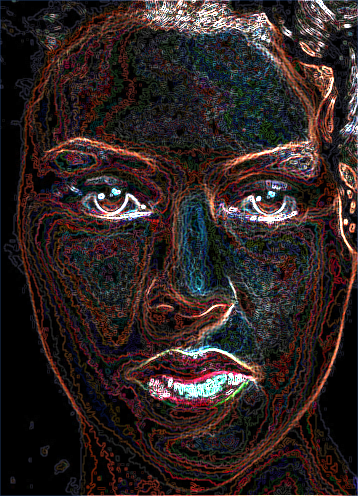
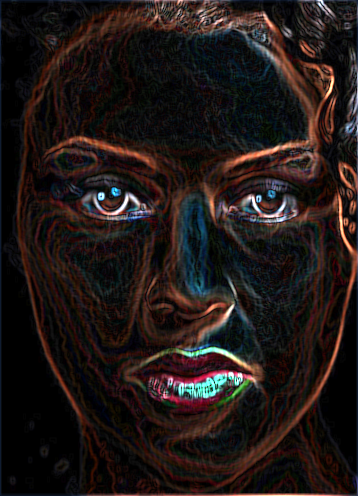
função correlação

diff --git a/Trabalho_1/filtro_sobel.py b/Trabalho_1/filtro_sobel.py
@@ -1,49 +1,11 @@
 from PIL import Image, ImageFilter
 import timeit
 from math import sqrt
-from utils import in_file, out_file
+from utils import in_file, out_file, correlacao
 from filtro_media import filtro_media
 
 # aplicando filtro sobel horizontal e vertical
-def filtro_sobel(imagem, filtroX, filtroY):
-    w, h = imagem.size
-    nova_img = Image.new('RGB', (w, h))
-
-    for linha in range(w):
-        for coluna in range(h):
-            soma_rX = 0
-            soma_gX = 0
-            soma_bX = 0
-            soma_rY = 0
-            soma_gY = 0
-            soma_bY = 0
-            # soma = 0
-            # soma_1 = 0
-            i = 0
-            for m in range(linha-1, linha+2):
-                for n in range(coluna-1, coluna+2):
-                    if m >= 0 and m < w and n >= 0 and n < h:
-                        pxl = imagem.getpixel((m,n))
-                        # soma += pxl * filtroX[i]
-                        # soma_1 += pxl * filtroY[i]
-                        soma_rX += pxl[0] * filtroX[i]
-                        soma_rY += pxl[0] * filtroY[i]
-                        soma_gX += pxl[1] * filtroX[i]
-                        soma_gY += pxl[1] * filtroY[i]
-                        soma_bX += pxl[2] * filtroX[i]
-                        soma_bY += pxl[2] * filtroY[i]
-
-                    i+=1
-
-            pxl_r = abs(soma_rX) + abs(soma_rY)
-            pxl_g = abs(soma_gX) + abs(soma_gY)
-            pxl_b = abs(soma_bX) + abs(soma_bY)
-
-            nova_img.putpixel((linha, coluna), (pxl_r, pxl_g, pxl_b))
-    return nova_img
-
-
-if __name__ == "__main__":
+def filtro_sobel(imagem):
     XSOBEL = [-1, 0, 1,
             -2, 0, 2,
             -1, 0, 1]
@@ -52,11 +14,51 @@ if __name__ == "__main__":
                 0, 0, 0,
                 1, 2, 1]
 
+    w, h = imagem.size
+    nova_img = Image.new('RGB', (w, h))
+    
+    for linha in range(w):
+        for coluna in range(h):
+            #soma_rX = 0
+            #soma_gX = 0
+            #soma_bX = 0
+            #soma_rY = 0
+            #soma_gY = 0
+            #soma_bY = 0
+            # soma = 0
+            # soma_1 = 0
+            #i = 0
+            #for m in range(linha-1, linha+2):
+            #    for n in range(coluna-1, coluna+2):
+            #        if m >= 0 and m < w and n >= 0 and n < h:
+            #            pxl = imagem.getpixel((m,n))
+                        # soma += pxl * filtroX[i]
+                        # soma_1 += pxl * filtroY[i]
+            #            soma_rX += pxl[0] * filtroX[i]
+            #            soma_rY += pxl[0] * filtroY[i]
+            #            soma_gX += pxl[1] * filtroX[i]
+            #            soma_gY += pxl[1] * filtroY[i]
+            #            soma_bX += pxl[2] * filtroX[i]
+            #            soma_bY += pxl[2] * filtroY[i]
+
+            #        i+=1
+            soma_RGB_X = correlacao(imagem, XSOBEL, (3, 3), (linha, coluna))
+            soma_RGB_Y = correlacao(imagem, YSOBEL, (3, 3), (linha, coluna))
+
+            pxl_r = abs(soma_RGB_X[0]) + abs(soma_RGB_Y[0])
+            pxl_g = abs(soma_RGB_X[1]) + abs(soma_RGB_Y[1])
+            pxl_b = abs(soma_RGB_X[2]) + abs(soma_RGB_Y[2])
+
+            nova_img.putpixel((linha, coluna), (pxl_r, pxl_g, pxl_b))
+    return nova_img
+
+
+if __name__ == "__main__":
     imagem_original = Image.open(in_file("Woman.jpg"))
     imagem_original = filtro_media(imagem_original)
 
     inicio = timeit.default_timer()
-    imagem_filtro = filtro_sobel(imagem_original, XSOBEL, YSOBEL)
+    imagem_filtro = filtro_sobel(imagem_original)
     fim = timeit.default_timer()
 
     print("Tempo de execução: {}".format(fim - inicio))

diff --git a/Trabalho_1/filtro_media.py b/Trabalho_1/filtro_media.py
@@ -1,38 +1,46 @@
 from PIL import Image
 import timeit
-from utils import in_file, out_file
+from utils import in_file, out_file, correlacao
 
 # Aplicando filtro média 3x5
-def filtro_media(imagem):
+def filtro_media(imagem, filtro, dimensao_filtro):
     w, h = imagem.size
     nova_img = Image.new("RGB", (w, h))
 
     for linha in range(w):
         for coluna in range(h):
-            soma_r = 0
-            soma_g = 0
-            soma_b = 0
+            #soma_r = 0
+            #soma_g = 0
+            #soma_b = 0
 
-            for m in range(linha-1, linha+2):
-                for n in range(coluna-2, coluna+3):
-                    if m >= 0 and m < w and n >= 0 and n < h:
-                        pxl = imagem.getpixel((m,n))
-                
-                        soma_r += pxl[0]
-                        soma_g += pxl[1]
-                        soma_b += pxl[2]
+            #for m in range(linha-1, linha+2):
+            #    for n in range(coluna-2, coluna+3):
+            #        if m >= 0 and m < w and n >= 0 and n < h:
+            #            pxl = imagem.getpixel((m,n))
+            #    
+            #            soma_r += pxl[0]
+            #            soma_g += pxl[1]
+            #            soma_b += pxl[2]
             
-            nova_img.putpixel((linha, coluna), (soma_r//15, soma_g//15, soma_b//15))
+            soma_RGB = correlacao(imagem, filtro, dimensao_filtro, (linha, coluna))
+
+            nova_img.putpixel((linha, coluna), (int(soma_RGB[0]), int(soma_RGB[1]), int(soma_RGB[2])))
     return nova_img
             
             
             
 
 if __name__ == "__main__":
-    img = Image.open(in_file("Woman.jpg"), "r")
+    img = Image.open(in_file("Woman.jpg"))
+
+    FILTRO_MEDIA = [
+                1/15, 1/15, 1/15, 1/15, 1/15,
+                1/15, 1/15, 1/15, 1/15, 1/15,
+                1/15, 1/15, 1/15, 1/15, 1/15
+            ]
     
     inicio = timeit.default_timer()
-    imagem_filto = filtro_media(img)
+    imagem_filto = filtro_media(img, FILTRO_MEDIA, (3, 5))
     fim = timeit.default_timer()
 
     print("Tempo de execução: {}".format(fim - inicio))

diff --git a/Trabalho_1/utils.py b/Trabalho_1/utils.py
@@ -9,3 +9,32 @@ def in_file(filename):
 
 def out_file(filename):
     return os.path.join(OUTPUT_DIR, filename)
+
+
+def correlacao(imagem, filtro, dimensao_filtro, tupla_pixel):
+    w, h = imagem.size
+
+    linha = tupla_pixel[0]
+    coluna = tupla_pixel[1]
+    var_linha = int(dimensao_filtro[0]/2) # variante da linha do inicio ao fim
+    var_coluna = int(dimensao_filtro[1]/2) # variante da coluna do inicio ao fim
+    
+    soma_r = 0
+    soma_g = 0
+    soma_b = 0
+    i = 0
+
+    # for que vai percorrer a vizinhança do píxel de acordo com a dimensão do filtro
+    for m in range(linha-var_linha, linha+var_linha+1):
+        for n in range(coluna-var_coluna, coluna+var_coluna+1):
+            if m >= 0 and m < w and n >= 0 and n < h:
+                pxl = imagem.getpixel((m,n))
+
+                soma_r += pxl[0] * filtro[i]
+                soma_g += pxl[1] * filtro[i]
+                soma_b += pxl[2] * filtro[i]
+            
+            i+=1
+    
+    return (soma_r, soma_g, soma_b)
+                

diff --git a/Trabalho_1/comparacaoFMedia.py b/Trabalho_1/comparacaoFMedia.py
@@ -1,0 +1,21 @@
+from PIL import Image
+import timeit
+from filtro_media import filtro_media
+from utils import in_file, out_file, correlacao       
+            
+
+if __name__ == "__main__":
+    img = Image.open(in_file("Woman.jpg"))
+
+    MEDIA_25x25 = [
+                1/15, 1/15, 1/15, 1/15, 1/15, 1/15, 1/15, 1/15, 1/15, 1/15, 
+                1/15, 1/15, 1/15, 1/15, 1/15,
+                1/15, 1/15, 1/15, 1/15, 1/15
+            ]
+    
+    inicio = timeit.default_timer()
+    imagem_filto = filtro_media(img)
+    fim = timeit.default_timer()
+
+    print("Tempo de execução: {}".format(fim - inicio))
+    imagem_filto.save(out_file("WomanWithMediaFilter.png"))

diff --git a/Trabalho_1/filtro_mediana.py b/Trabalho_1/filtro_mediana.py
@@ -42,7 +42,7 @@ if __name__ == "__main__":
     img = Image.open(in_file("Woman.jpg"))
     
     inicio = timeit.default_timer()
-    imagem_filto = filtro_media(img)
+    imagem_filto = filtro_mediana(img)
     fim = timeit.default_timer()
 
     print("Tempo de execução: {}".format(fim - inicio))
